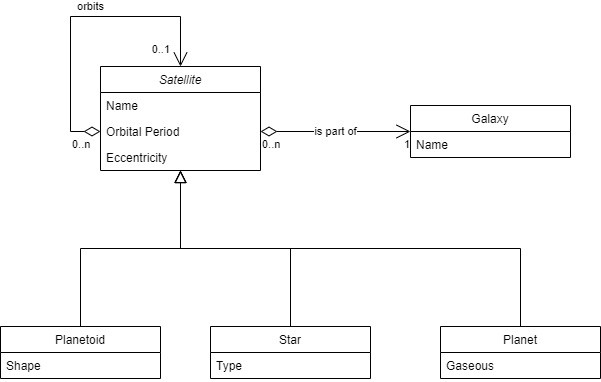
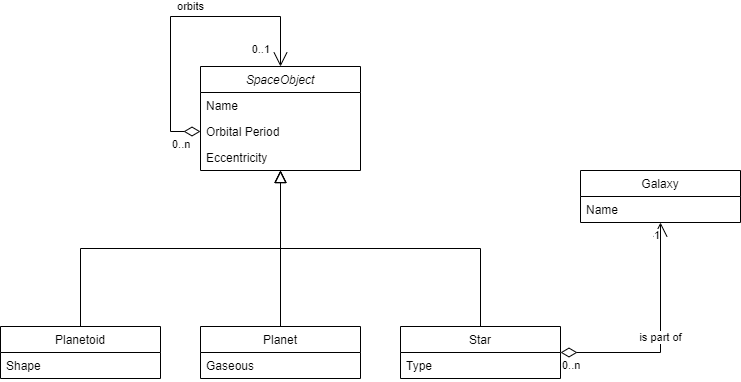
Start situations

diff --git a/exercise3/src/main/java/be/faros/hiberstraps/domain/SpaceObject.java b/exercise3/src/main/java/be/faros/hiberstraps/domain/SpaceObject.java
@@ -1,15 +1,20 @@
 package be.faros.hiberstraps.domain;
 
-import javax.persistence.Entity;
-import javax.persistence.Inheritance;
-import javax.persistence.InheritanceType;
+import javax.persistence.*;
+import java.util.List;
 
 @Entity
 @Inheritance(strategy = InheritanceType.JOINED)
-public abstract class Satellite extends BaseEntity {
+public abstract class SpaceObject extends BaseEntity {
     private String name;
     private long orbitalPeriod;
     private double eccentricity;
+
+    @ManyToOne
+    private SpaceObject centralBody;
+
+    @OneToMany(mappedBy = "centralBody")
+    private List<SpaceObject> satellites;
 
     public String getName() {
         return name;
@@ -33,5 +38,21 @@ public abstract class Satellite extends BaseEntity {
 
     public void setEccentricity(double eccentricity) {
         this.eccentricity = eccentricity;
+    }
+
+    public SpaceObject getCentralBody() {
+        return centralBody;
+    }
+
+    public void setCentralBody(SpaceObject centralBody) {
+        this.centralBody = centralBody;
+    }
+
+    public List<SpaceObject> getSatellites() {
+        return satellites;
+    }
+
+    public void setSatellites(List<SpaceObject> satellites) {
+        this.satellites = satellites;
     }
 }

diff --git a/demo/src/main/java/be/faros/hiberstraps/demo/repository/CourseRepository.java b/demo/src/main/java/be/faros/hiberstraps/demo/repository/CourseRepository.java
@@ -1,0 +1,37 @@
+package be.faros.hiberstraps.demo.repository;
+
+import be.faros.hiberstraps.demo.domain.Course;
+import org.springframework.stereotype.Repository;
+
+import javax.persistence.EntityManager;
+import javax.persistence.TypedQuery;
+import javax.persistence.criteria.*;
+import java.util.List;
+
+@Repository
+public class CourseRepository {
+    private final EntityManager em;
+
+    public CourseRepository(EntityManager em) {
+        this.em = em;
+    }
+
+    public List<Course> findCoursesByName() {
+        CriteriaBuilder cb = em.getCriteriaBuilder();
+
+        CriteriaQuery<Course> query = cb.createQuery(Course.class);
+
+        Root<Course> root = query.from(Course.class);
+
+        Path<Object> name = root.get("name");
+
+        Predicate test = cb.equal(name, "test");
+        cb.not(test);
+
+        query.where(test);
+
+        TypedQuery<Course> query1 = em.createQuery(query);
+
+        return query1.getResultList();
+    }
+}

diff --git a/demo/src/main/java/be/faros/hiberstraps/demo/domain/Course.java b/demo/src/main/java/be/faros/hiberstraps/demo/domain/Course.java
@@ -1,0 +1,30 @@
+package be.faros.hiberstraps.demo.domain;
+
+import javax.persistence.Entity;
+import javax.persistence.Id;
+import java.util.UUID;
+
+@Entity
+public class Course {
+
+    @Id
+    private UUID id;
+
+    private String name;
+
+    public void setId(UUID id) {
+        this.id = id;
+    }
+
+    public UUID getId() {
+        return id;
+    }
+
+    public String getName() {
+        return name;
+    }
+
+    public void setName(String name) {
+        this.name = name;
+    }
+}

diff --git a/demo/src/main/java/be/faros/hiberstraps/demo/repository/CourseJpaRepository.java b/demo/src/main/java/be/faros/hiberstraps/demo/repository/CourseJpaRepository.java
@@ -1,0 +1,12 @@
+package be.faros.hiberstraps.demo.repository;
+
+import be.faros.hiberstraps.demo.domain.Course;
+import org.springframework.data.jpa.repository.Query;
+import org.springframework.data.repository.CrudRepository;
+
+import java.util.List;
+import java.util.UUID;
+
+public interface CourseJpaRepository extends CrudRepository<Course, UUID> {
+    List<Course> findAllByName(String name);
+}

diff --git a/exercise2/src/main/java/be/faros/hiberstraps/domain/SpaceObject.java b/exercise2/src/main/java/be/faros/hiberstraps/domain/SpaceObject.java
@@ -52,7 +52,7 @@ public abstract class SpaceObject extends BaseEntity {
         return satellites;
     }
 
-    public void setSatellites(List<SpaceObject> satellites) {
-        this.satellites = satellites;
+    public void setSatellites(List<SpaceObject> spaceObjects) {
+        this.satellites = spaceObjects;
     }
 }

diff --git a/exercise3/src/main/java/be/faros/hiberstraps/domain/Planetoid.java b/exercise3/src/main/java/be/faros/hiberstraps/domain/Planetoid.java
@@ -5,7 +5,7 @@ import javax.persistence.EnumType;
 import javax.persistence.Enumerated;
 
 @Entity
-public class Planetoid extends Satellite {
+public class Planetoid extends SpaceObject {
     @Enumerated(EnumType.STRING)
     private Shape shape;
 

diff --git a/exercise3/src/main/java/be/faros/hiberstraps/domain/Planet.java b/exercise3/src/main/java/be/faros/hiberstraps/domain/Planet.java
@@ -3,7 +3,7 @@ package be.faros.hiberstraps.domain;
 import javax.persistence.Entity;
 
 @Entity
-public class Planet extends Satellite {
+public class Planet extends SpaceObject {
     private boolean gaseous;
 
     public boolean isGaseous() {

diff --git a/exercise3/src/main/java/be/faros/hiberstraps/domain/Star.java b/exercise3/src/main/java/be/faros/hiberstraps/domain/Star.java
@@ -6,7 +6,7 @@ import javax.persistence.Enumerated;
 import javax.persistence.ManyToOne;
 
 @Entity
-public class Star extends Satellite {
+public class Star extends SpaceObject {
     @Enumerated(EnumType.STRING)
     private Type type;
 

diff --git a/exercise2/README.md b/exercise2/README.md
@@ -1,5 +1,14 @@
 ## Satellite starter
 This is the start point for exercise 2 of the Hibernate course.
-It was created using [Spring Initializr](http://start.spring.io).
+It builds upon the solution to exercise 1.
 
-Included dependencies are Spring Data JPA, Spring Web, Bean Validation and the H2 Database driver.
+Included dependencies are Spring Data JPA, Spring Web and the H2 Database driver.
+
+### The exercise
+Your goal is to implement repository classes with several queries using the Criteria API.
+
+- Find a Galaxy by a name (exactly)
+- Find a Galaxy by a name (fuzzy)
+- Retrieve all Stars for a given Galaxy
+- Find all SpaceObjects orbiting a Star, up to 3 levels deep (spaceObjects of spaceObjects)
+- Find all Planets and Planetoids by a name (fuzzy) that orbit a Star of a given type.

diff --git a/exercise3/README.md b/exercise3/README.md
@@ -1,5 +1,13 @@
 ## Satellite starter
-This is the start point for exercise 2 of the Hibernate course.
-It was created using [Spring Initializr](http://start.spring.io).
+This is the start point for exercise 3 of the Hibernate course.
+It builds upon the solution to exercise 1.
 
-Included dependencies are Spring Data JPA, Spring Web, Bean Validation and the H2 Database driver.
+Included dependencies are Spring Data JPA, Spring Web and the H2 Database driver.
+
+### The exercise
+Your goal is to implement a repository with several queries using Spring Data.
+
+- Find a Galaxy by a name (exactly)
+- Find a Galaxy by a name (fuzzy)
+- Retrieve all Stars for a given Galaxy
+- Find all Planets and Planetoids by a name (fuzzy) that orbit a Star of a given type

diff --git a/exercise1/README.md b/exercise1/README.md
@@ -2,4 +2,12 @@
 This is the start point for exercise 1 of the Hibernate course.
 It was created using [Spring Initializr](http://start.spring.io).
 
-Included dependencies are Spring Data JPA, Spring Web, Bean Validation and the H2 Database driver.
+Included dependencies are Spring Data JPA, Spring Web and the H2 Database driver.
+
+### The exercise
+Your goal is to implement the diagram shown below as JPA entity classes.
+
+Starting the Spring application will run an in memory H2 database that you can access through the [web console](http://localhost:8080/h2-console).
+The database schema generated for the entity classes can be viewed there.
+
+![Satellite Diagram](/spaceObjects.png)

diff --git a/demo/README.md b/demo/README.md
@@ -3,3 +3,11 @@ This is the start point for the demo given during the Hibernate course.
 It was created using [Spring Initializr](http://start.spring.io).
 
 Included dependencies are Spring Data JPA, Spring Web, Bean Validation and the H2 Database driver.
+
+Steps:
+1. Make entities based on courses.png
+2. Make repository with criteria/entitymanager
+3. Transactions
+4. Repository with Spring Data JPA
+5. Customizing Spring Data Repositories (Impl)
+6. 
